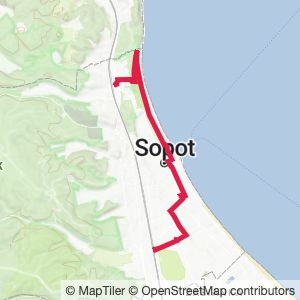
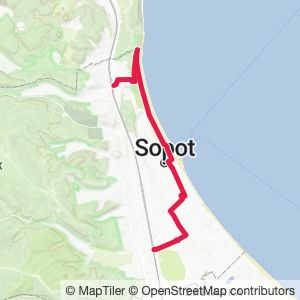
Update previews

diff --git a/src/components/ui/PreviewRouteMap/PreviewRouteMap.tsx b/src/components/ui/PreviewRouteMap/PreviewRouteMap.tsx
@@ -51,9 +51,27 @@ export const PreviewRouteMap = ({
       });
 
       map.addLayer({
+        id: "lines-outline",
+        type: "line",
+        source: "lines",
+        layout: {
+          "line-cap": "round",
+          "line-join": "round",
+        },
+        paint: {
+          "line-width": 7,
+          "line-color": "#f3f4f6",
+        },
+      });
+
+      map.addLayer({
         id: "lines",
         type: "line",
         source: "lines",
+        layout: {
+          "line-cap": "round",
+          "line-join": "round",
+        },
         paint: {
           "line-width": 5,
           "line-color": "#e11d48",

diff --git a/scripts/capture-route-preview.js b/scripts/capture-route-preview.js
@@ -27,7 +27,10 @@ async function run() {
   const page = await browser.newPage();
 
   for (const route of routes) {
-    if (fs.existsSync(`${BASE_PATH}/routes/${route}/${route}.jpg`)) {
+    if (
+      fs.existsSync(`${BASE_PATH}/routes/${route}/${route}.jpg`) &&
+      !process.env.FORCE
+    ) {
       console.log(`Skipping ${route}`);
       continue;
     }
